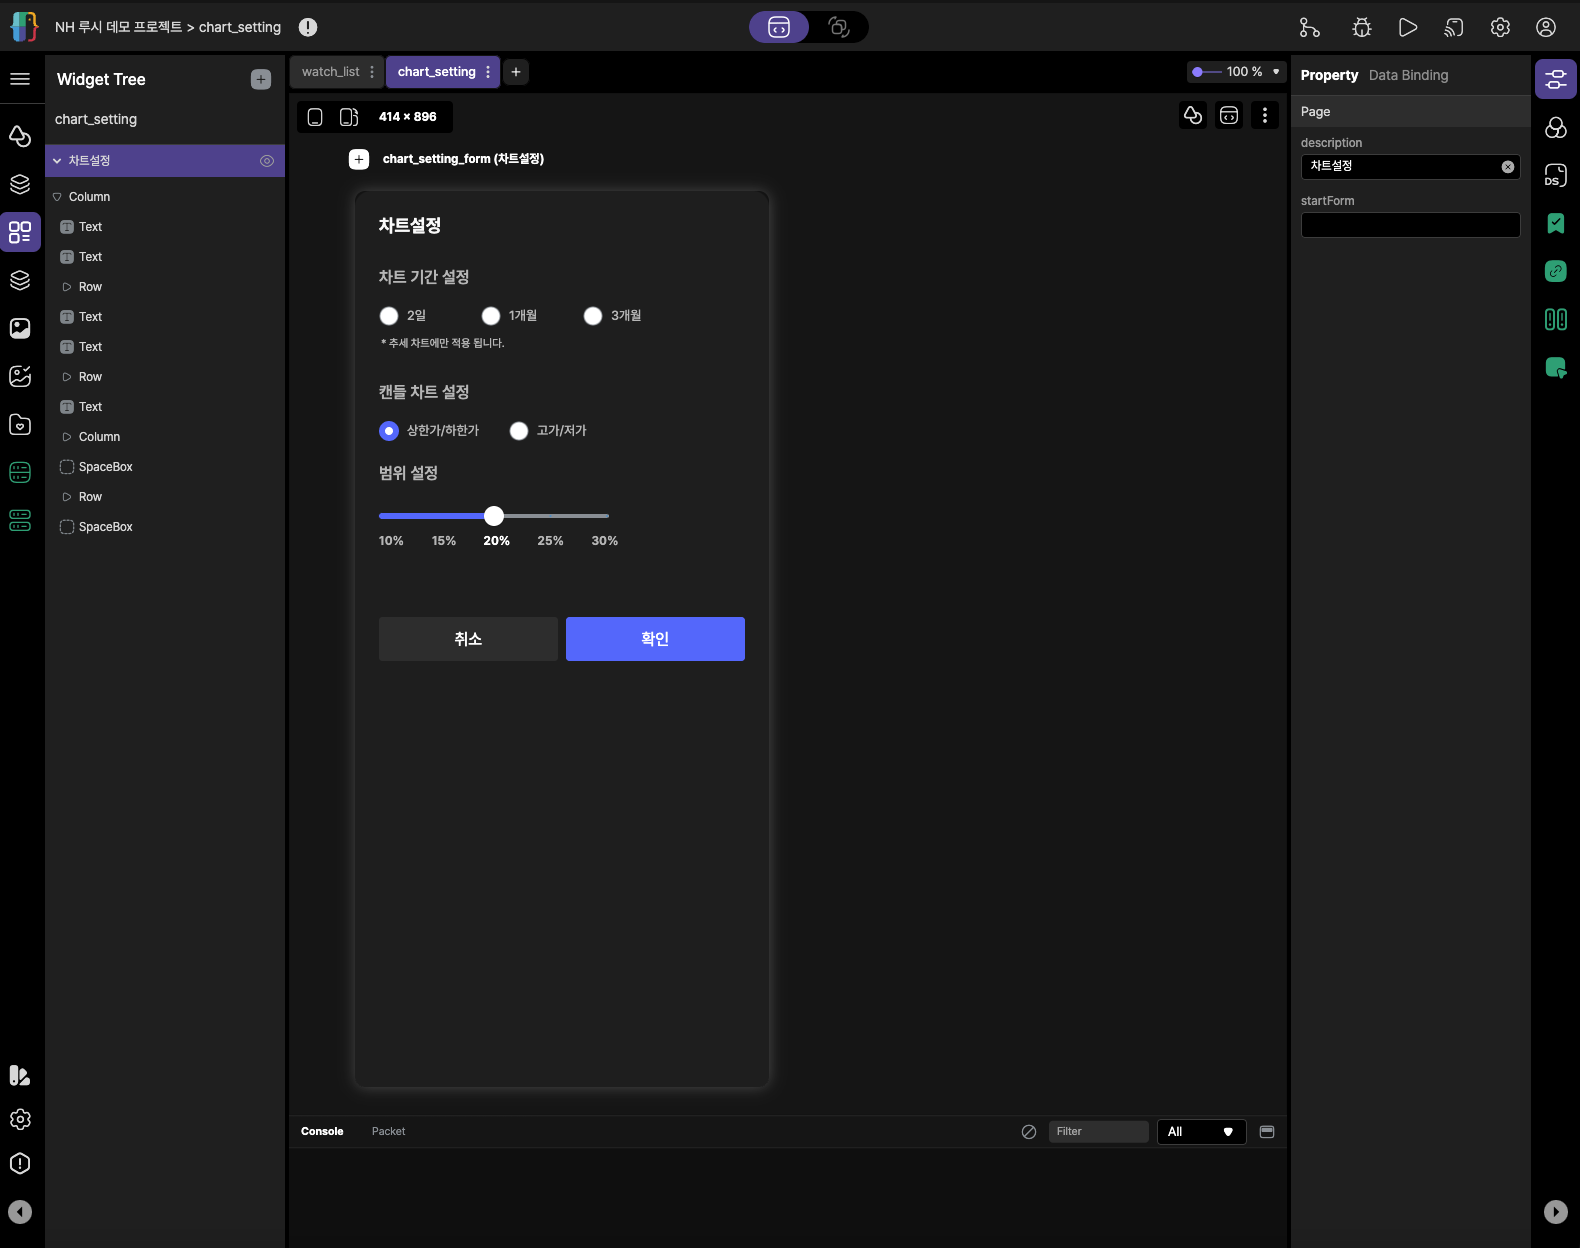
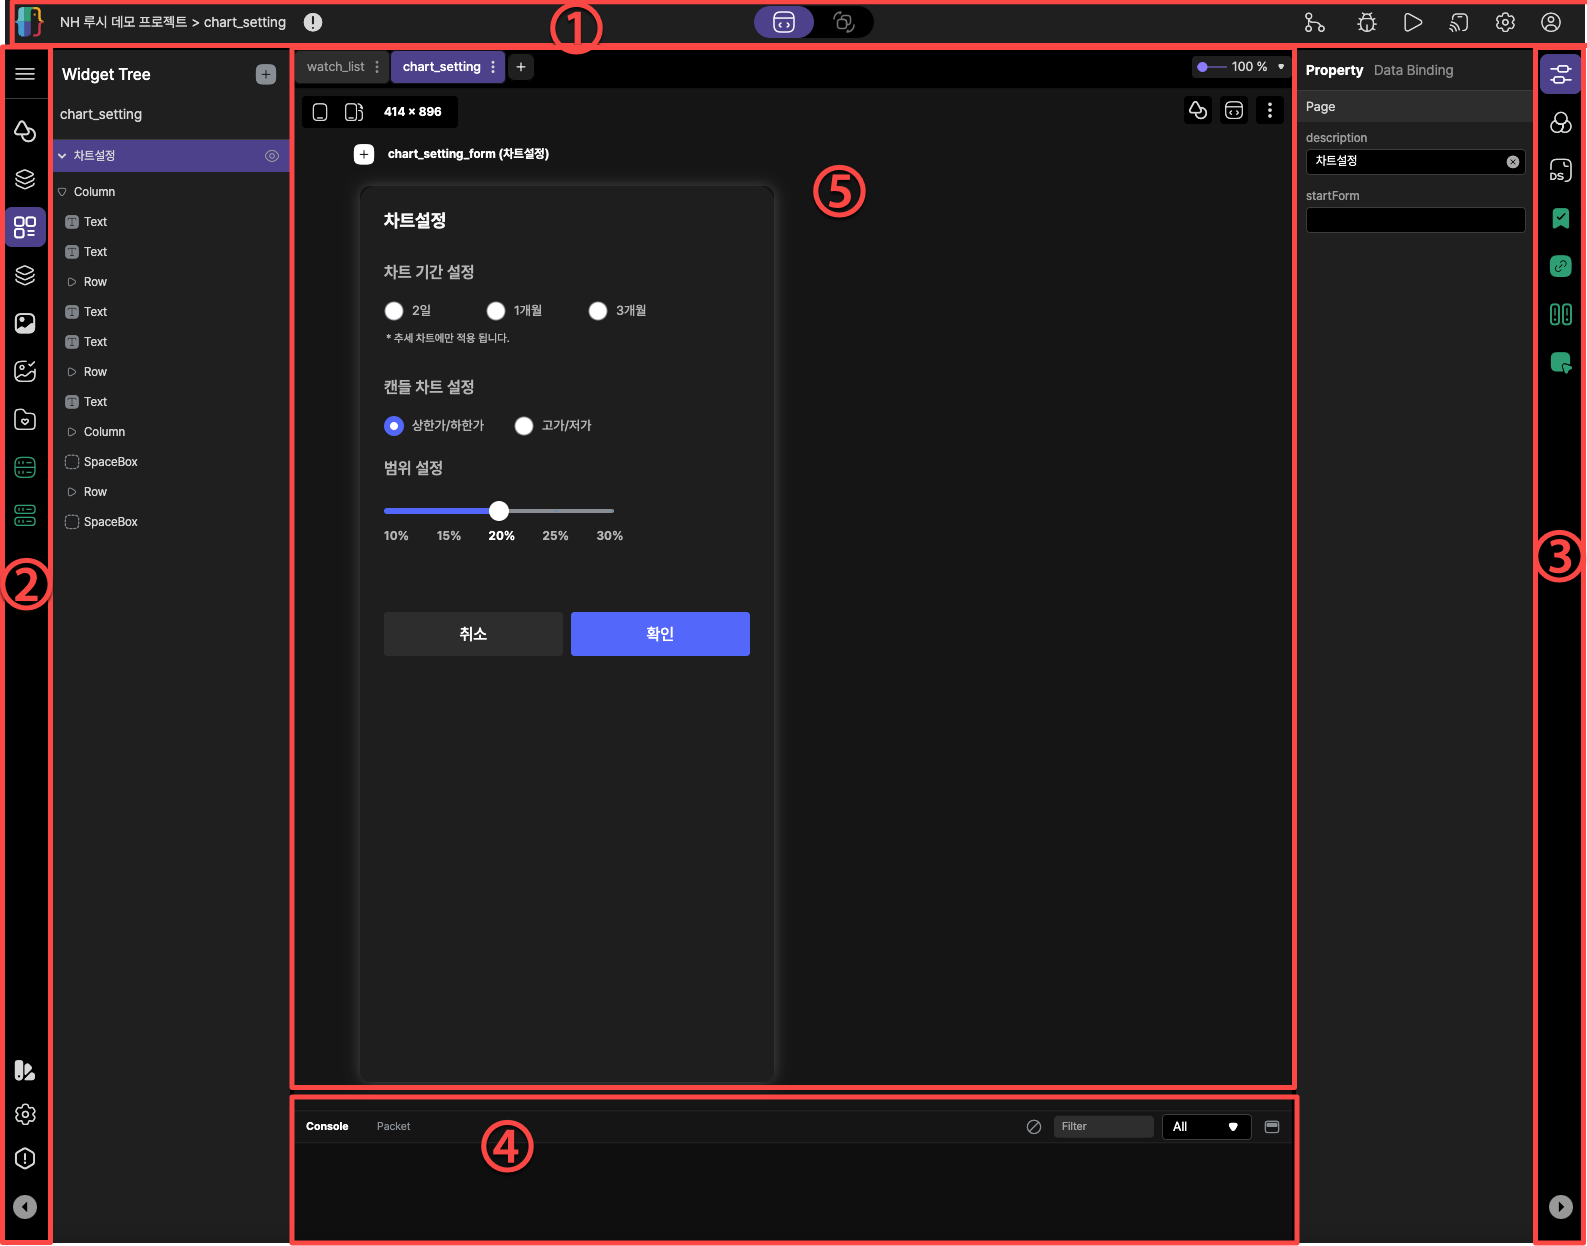
20231017_1536 kim commit

diff --git a/lucy_studio/lucy_studio.md b/lucy_studio/lucy_studio.md
@@ -1,7 +1,25 @@
 # App Builder
 
-* 프로젝트 창을 여시면 plate tabbar, action bar, canvas area, panel tabbar, left plate로 구성됩니다.
+* 프로젝트 창을 여시면 plate tabbar, action bar, canvas area, left plate, debug창으로 구성됩니다.
 
-<img src='../assets/menu1.png' />
 
-[시베리아 횡단 열차](../assets/menu1.png)
+![](../assets/menu1.png)
+
+
+### 1. action bar
+프로젝트 경로, Git, Bug Viewer, Run, Device Sync, 설정, Profile의 정보를 제공합니다.
+
+
+### 2. left plate
+Widgets, Pages 화면, Widgets tree, Components, Images, Assets Explorer, My Widgets, Data Provider, state transition 등등의 정보를 제공합니다.
+
+
+### 3. plate tabbar
+properties, Styles, Data Source, Provider Instance, CDS, Data Binding, Action 등록 등등의 정보를 제공합니다.
+
+
+### 4. log 정보
+프로그램 개발 시 여러 객체들의 로그등의 정보를 제공합니다.
+
+### 5. canvas area
+plate tabbar, 화면UI, script 편집창 등등의 정보를 제공합니다.
